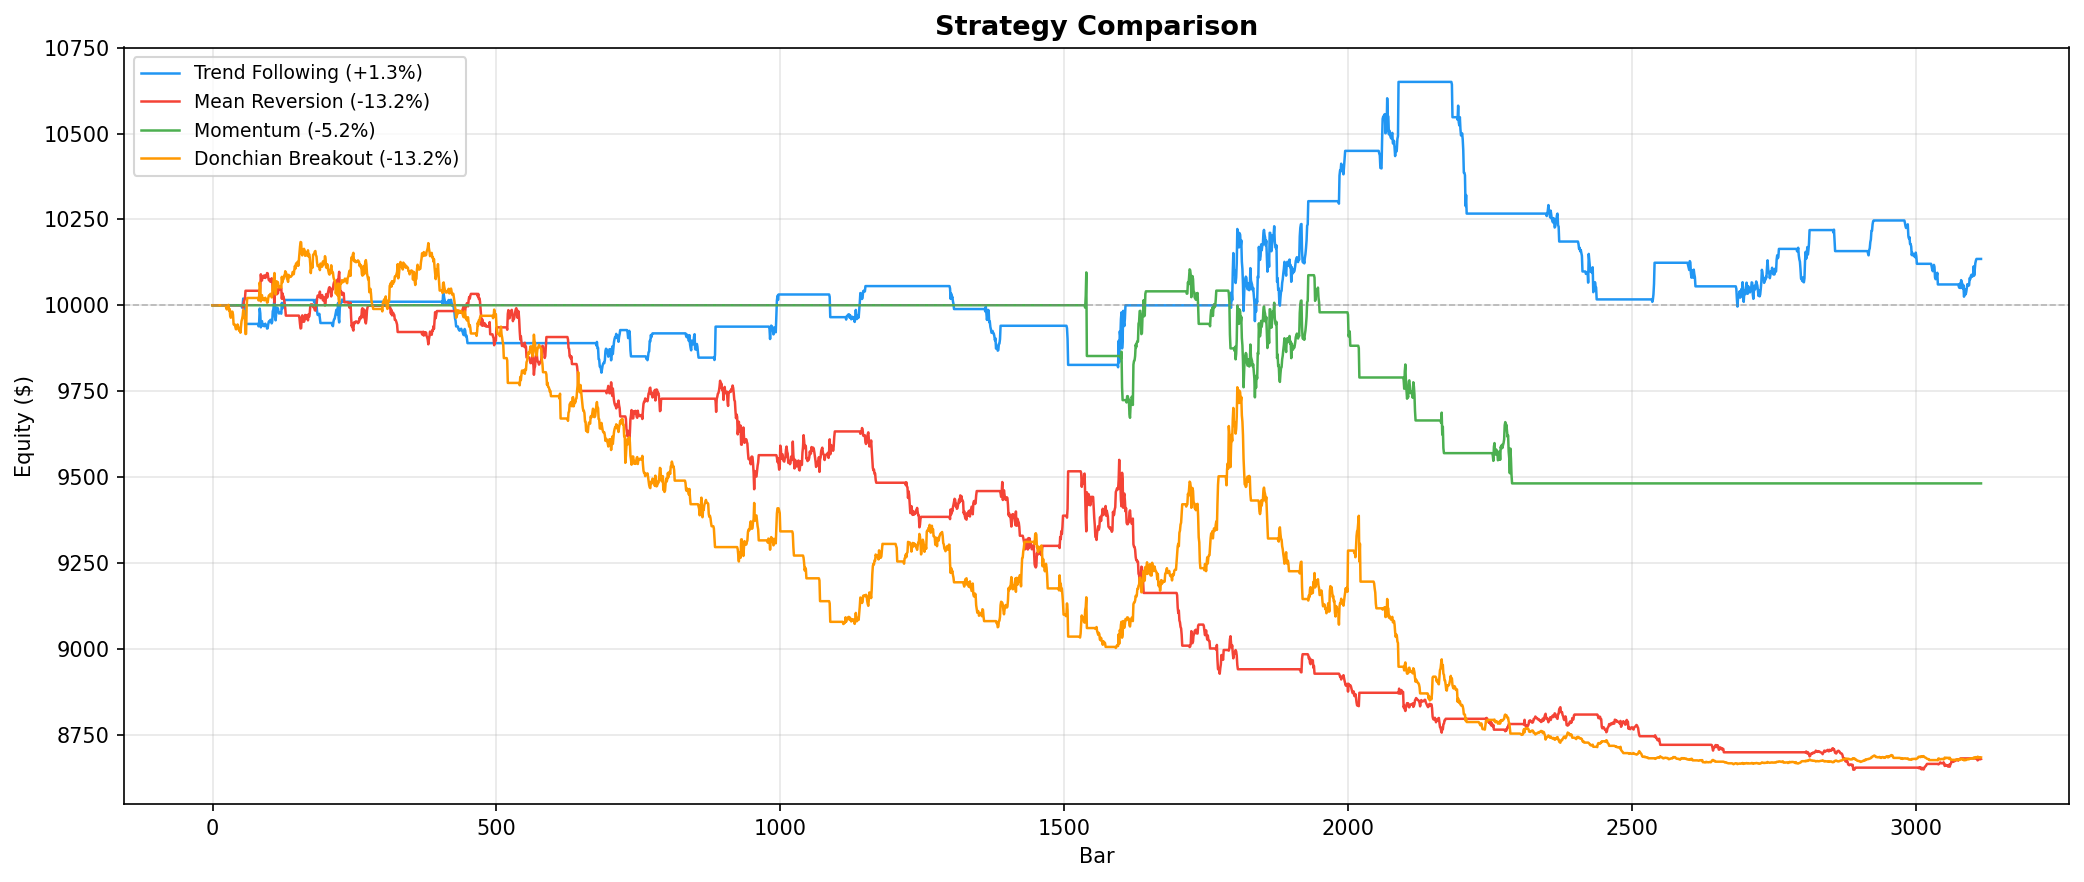
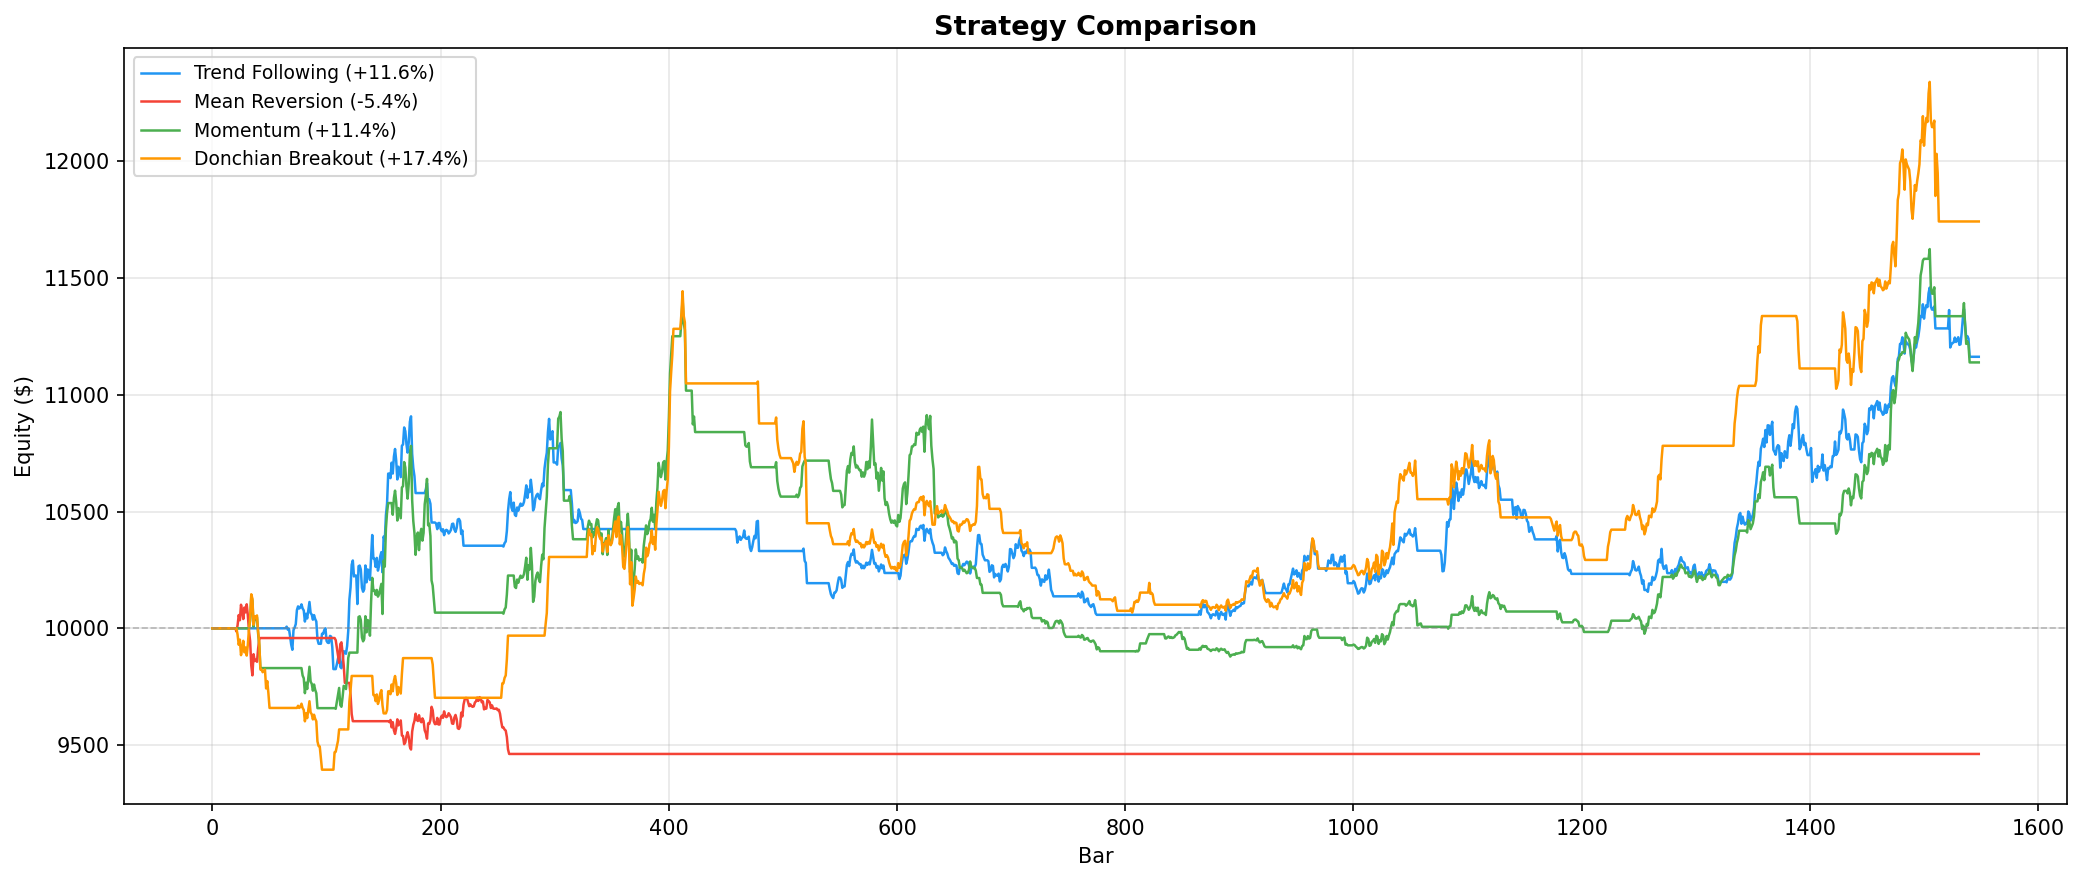
feat: updated demo

diff --git a/examples/demo.py b/examples/demo.py
@@ -27,6 +27,7 @@ import pandas as pd
 sys.path.insert(0, os.path.dirname(os.path.dirname(os.path.abspath(__file__))))
 
 from backtesting.backtest import Backtester
+from backtesting.plot import plot_strategy_comparison
 from backtesting.vectorized import VectorizedBacktester
 from backtesting.vectorized_signals import trend_following_signals
 from optimizer import optimize, walk_forward
@@ -69,22 +70,27 @@ def main():
     section("1. Backtest All Strategies")
     # ------------------------------------------------------------------
 
+    _tf_kw = {"use_trailing_stop": True, "allow_reentry": True,
+              "atr_stop_mult": 3.0, "trend_filter_period": 200}
+    _f200 = {"trend_filter_period": 200}
     strategies = {
-        "Trend Following": TrendFollowingStrategy(),
-        "Mean Reversion": MeanReversionStrategy(),
-        "Momentum": MomentumStrategy(),
-        "Donchian Breakout": DonchianBreakoutStrategy(),
+        "Trend Following": TrendFollowingStrategy(**_tf_kw),
+        "Mean Reversion": MeanReversionStrategy(**_f200),
+        "Momentum": MomentumStrategy(**_f200),
+        "Donchian Breakout": DonchianBreakoutStrategy(**_f200),
     }
 
     print(f"{'Strategy':<20s} {'Return':>8s} {'Max DD':>8s} {'Sharpe':>8s} {'Trades':>7s} {'Win %':>7s}")
     print("-" * 60)
 
     analyst_metrics = {}
+    equity_curves = {}
 
     for name, strat in strategies.items():
         bt = Backtester(df, strat, starting_cash=10_000,
                         commission_bps=5.0, slippage_bps=2.0, symbol="XAUUSD")
         eq, trades = bt.run()
+        equity_curves[name] = eq
 
         wins = len([t for t in trades if t.pnl and t.pnl > 0])
         win_rate = wins / len(trades) * 100 if trades else 0
@@ -98,6 +104,9 @@ def main():
         }
 
         print(f"{name:<20s} {ret:>+7.2f}% {bt.max_drawdown*100:>7.2f}% {sharpe:>8.4f} {len(trades):>7d} {win_rate:>6.1f}%")
+
+    os.makedirs("docs", exist_ok=True)
+    plot_strategy_comparison(equity_curves, save_path="docs/strategy_comparison.png", show=False)
 
     # ------------------------------------------------------------------
     section("2. Parameter Optimization (Trend Following)")

diff --git a/README.md b/README.md
@@ -7,7 +7,7 @@ A multi-asset, event-driven backtesting engine for evaluating trading strategies
 Built with Python. Data sourced from [lucas-guerin-44/datalake-api](https://github.com/lucas-guerin-44/datalake-api).
 
 ![Strategy Comparison](docs/strategy_comparison.png)
-*Equity curves for all four strategies on XAUUSD H1 with 5bps commission and 2bps slippage.*
+*Equity curves for all four strategies on XAUUSD H1 with 5bps commission and 2bps slippage. - very likely overfit*
 
 ## What This Does
 
